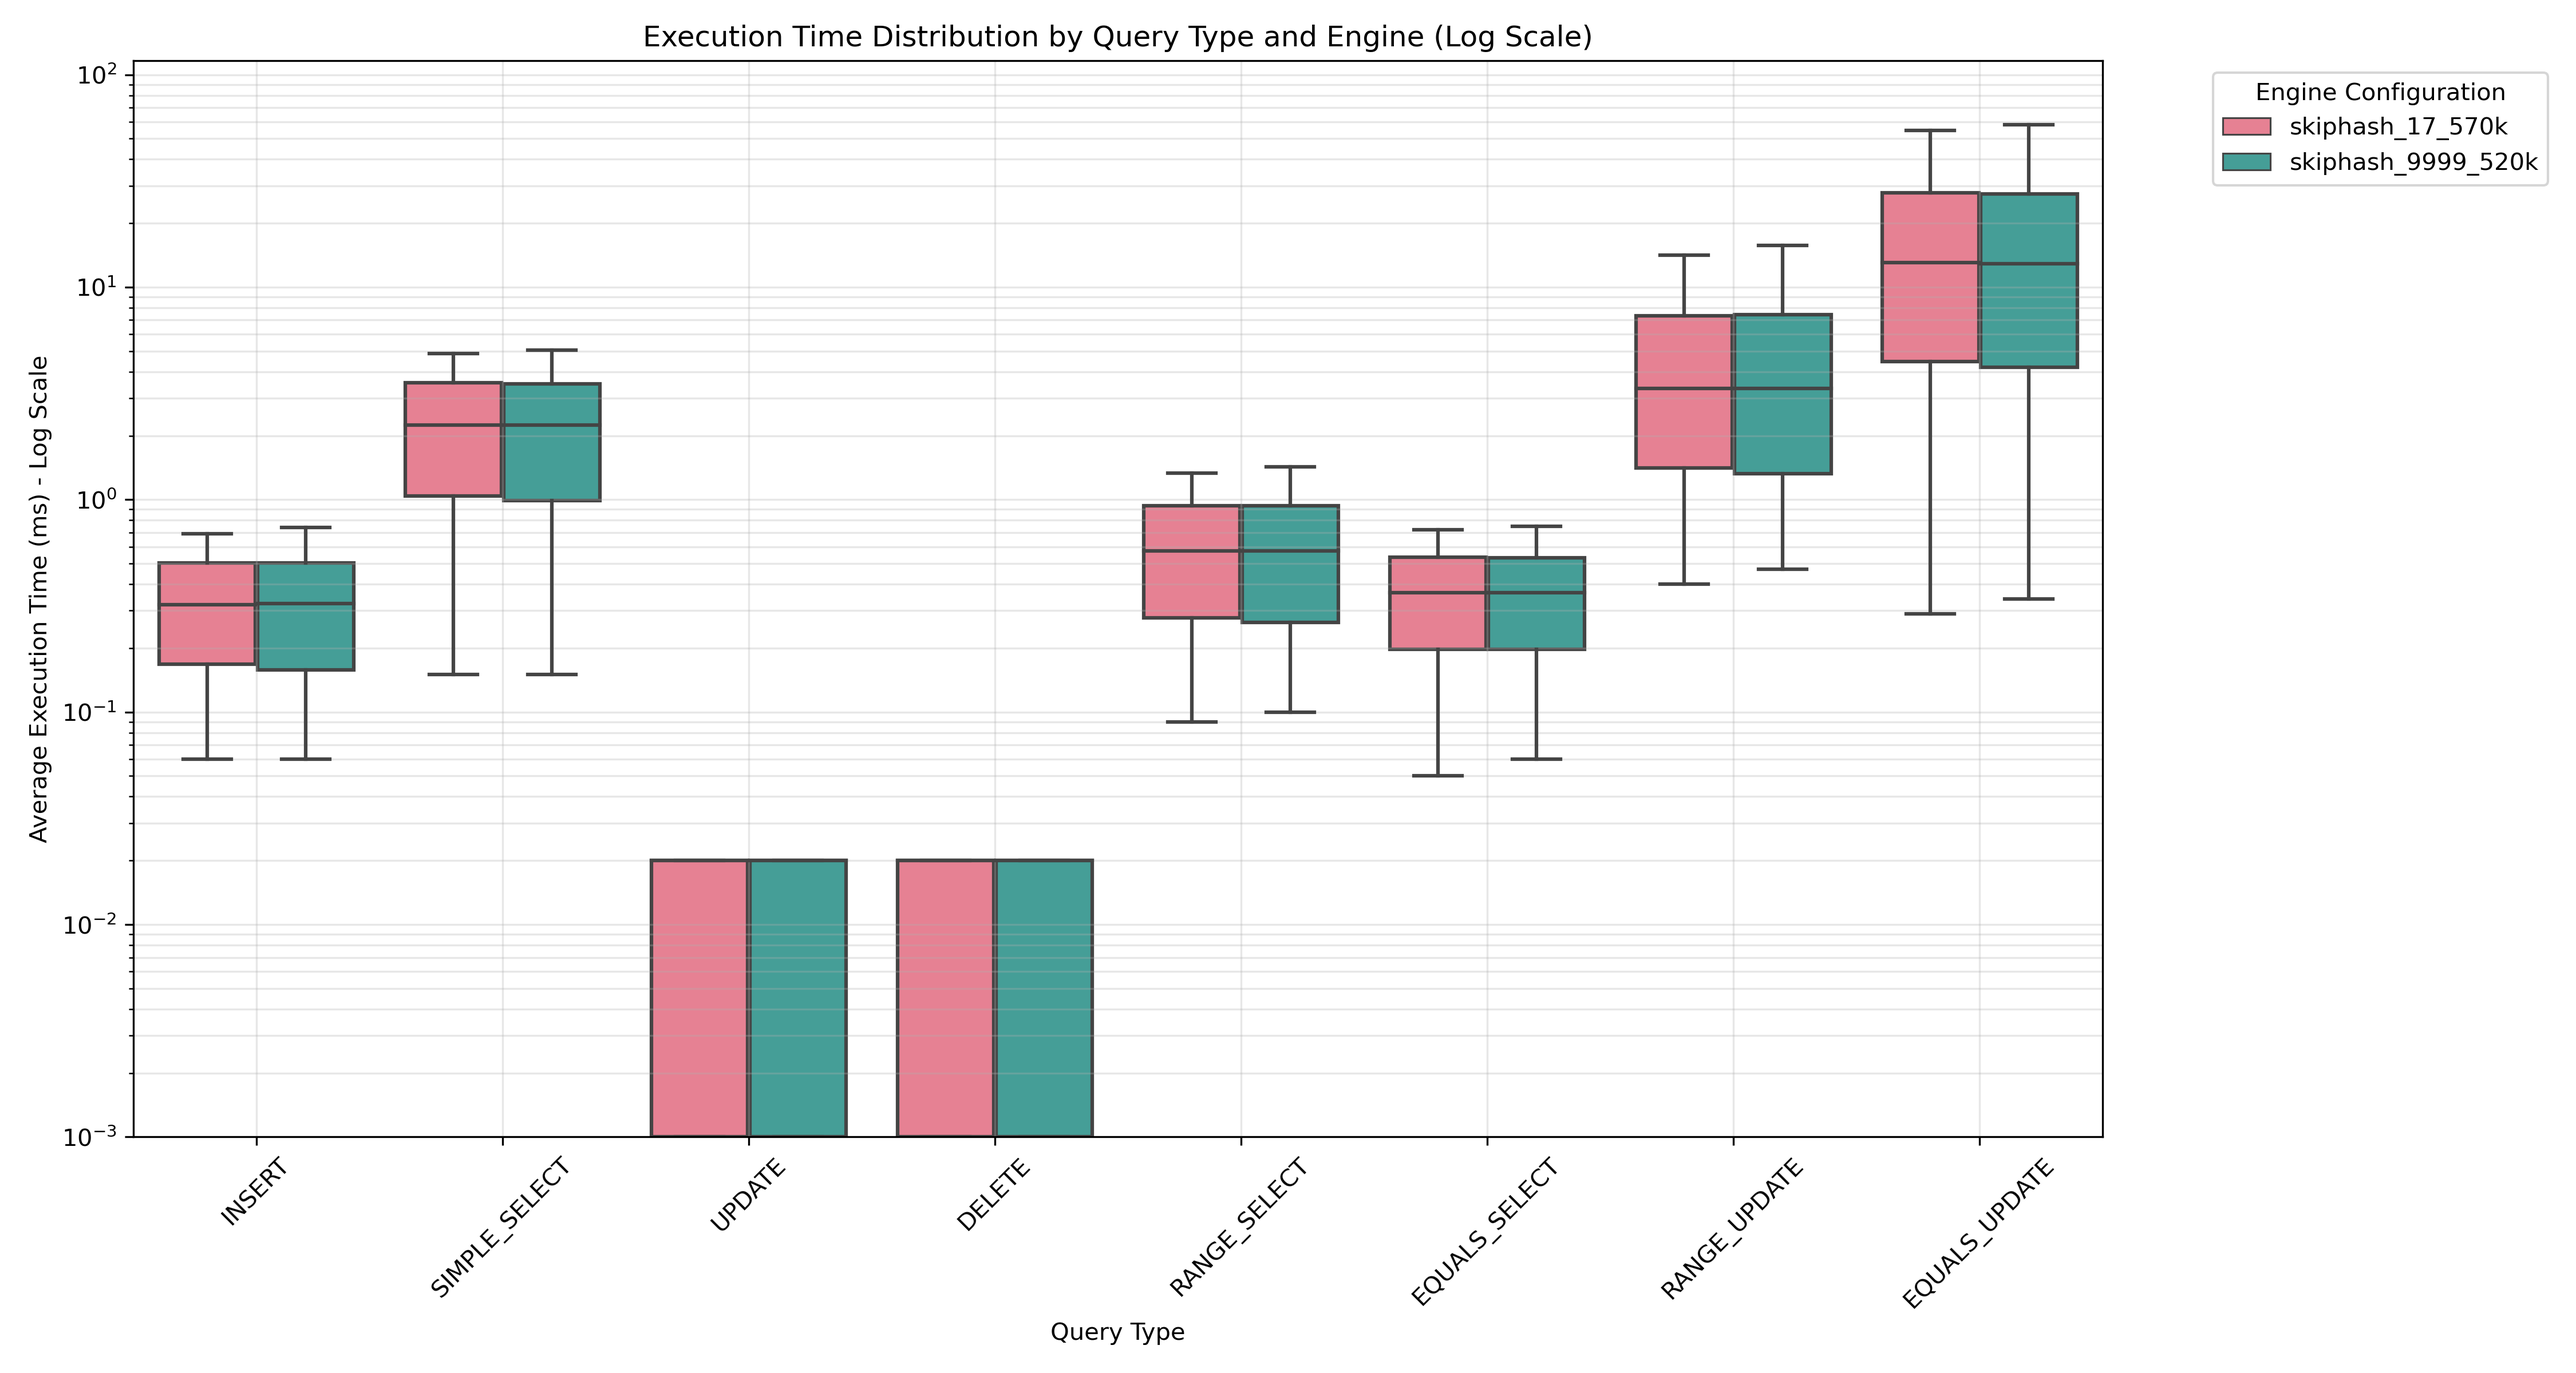
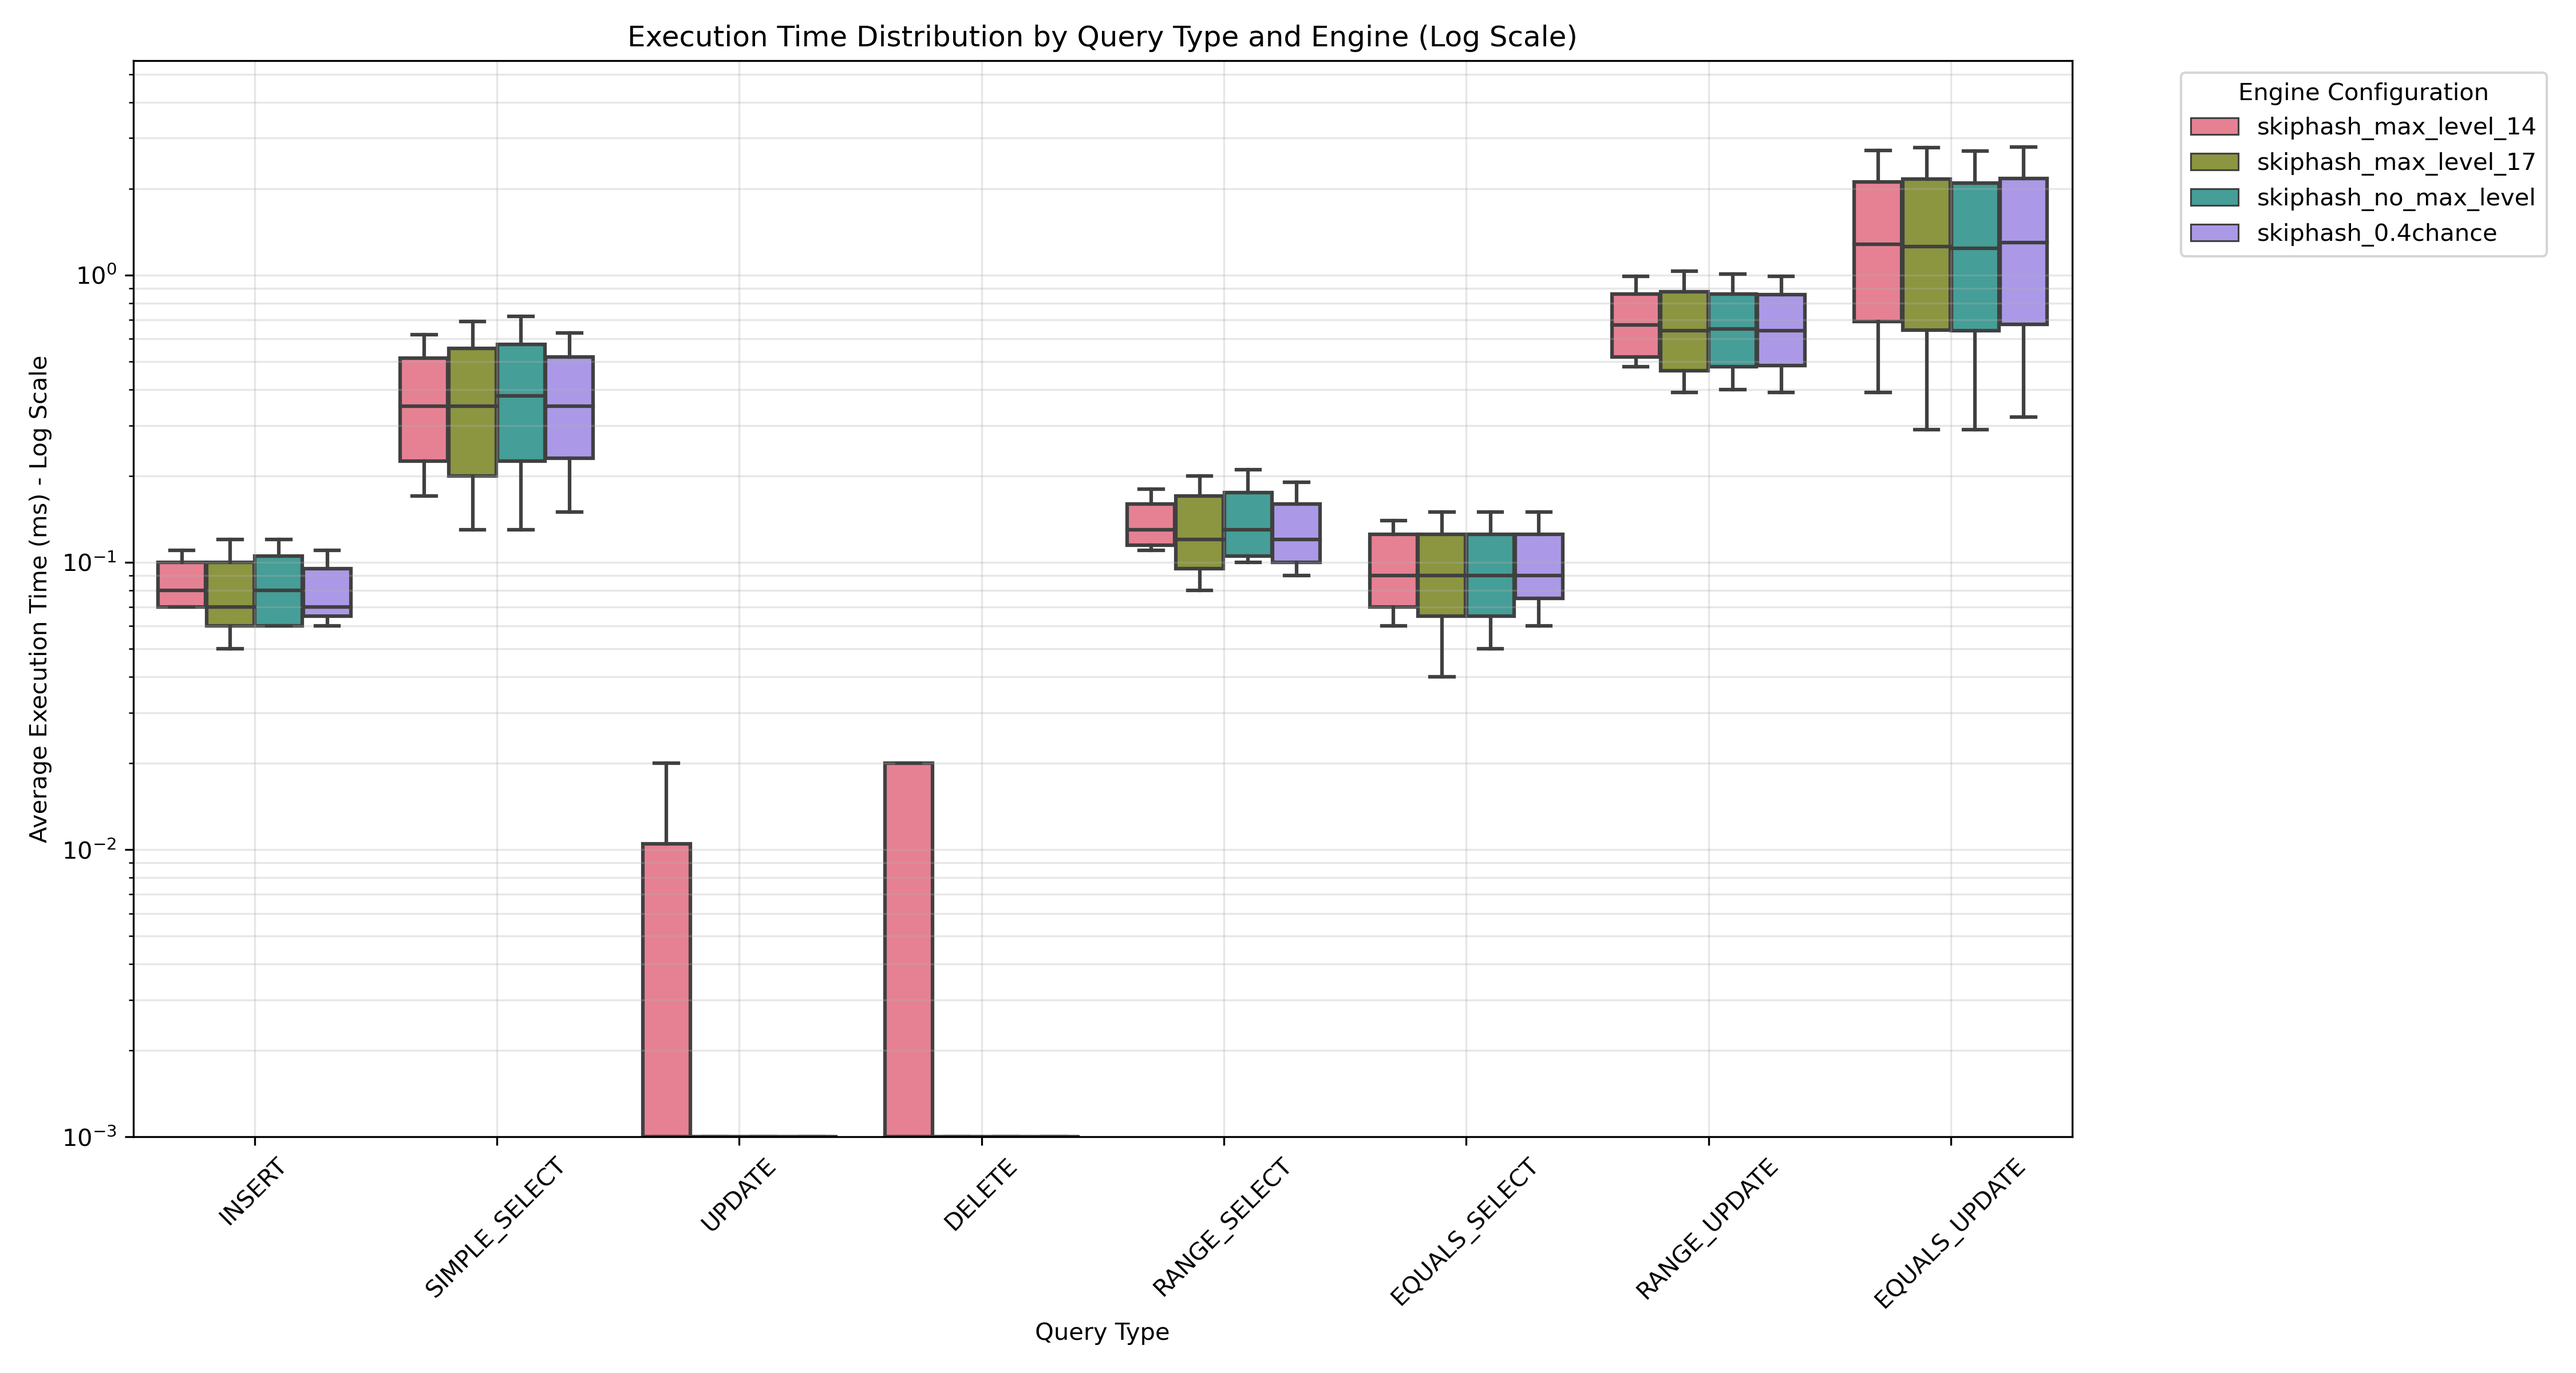
research documentation on skip lists

diff --git a/docs/SkipHash/results.md b/docs/SkipHash/results.md
@@ -1,0 +1,15 @@
+![alt text](image.png)
+
+Average performance change when setting max level. Red graph refers to max_level of 17, and green graph refers to the max level of 9999, used to simulate no cap on max level.
+
+The max level of 17 was chosen due to it being approximately log2(100_000), the size of the data we were testing on.
+
+
+![alt text](image-1.png)
+
+Setting a max level does not drastically improve performance. However, a clear seperation can be seen where max level setting improves the performance marginally at higher query and database sizes, and the 2 graphs diverge.
+
+
+![alt text](image-2.png)
+
+We also performed the test at 100K queries as well, but for different settings of the skip list, such as a lowered proability of 0.4, different max_level settings and default: no max level and 0.5 probabilty of increasing level. From the graphs, we can tell that max level of 14, the orange line in the graphs in the last image, very slightly edges out all the other configurations towards the ends, which solidifies our hypothesis that log2(N) data size would work best. The 100k queries has roughly 12.5k insert operations and hence, the size of the database is around 12.5k, and log2(12.5k) is approximately 14. However, it is slightly worse at the start, for reasons unclear. Perhaps statistical fluctuations at smaller query sizes.
